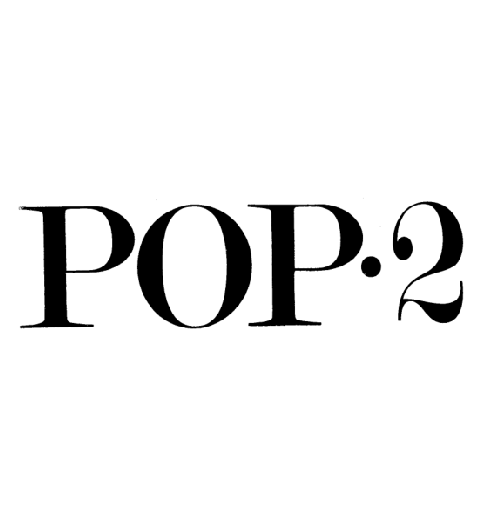
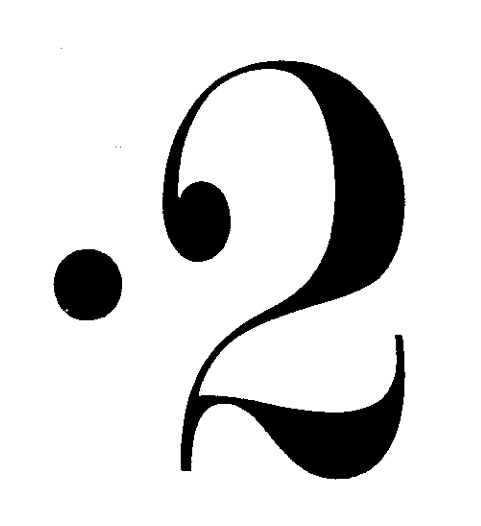
*

Changed region(s): [[0.0312, 0.0913, 0.9667, 0.9125]]

diff --git a/site/2026.html b/site/2026.html
@@ -18,21 +18,31 @@
 <nav><ul><li><a href="events.html">events</a></li><li><a href="blog.html">blog</a></li><li><a href="devlog.html">devlog</a></li><li><a href="now.html" class="parent">now</a></li></ul><ul><li><a href="2026.html" class="self">2026</a></li><li><a href="archives.html">archives</a></li></ul><ul></ul></nav>
 <main><h3 id="20P">20P</h3>
 <article>
-<h2>2026-07-30 il pluv</h2>
+<h2>2026-07-30 An ALGOL for your cat.</h2>
+<p>They would be both impractical, you will <i>never</i> host that compiler in 64kb, the chasm between it and the runtime will remain unbridged, and leave you with unreconcilable dependencies. But let me think on it and get back to you-
+<br />..<br />
+C, Pascal, Basic, Lua and some lesser known like Levien's IO or even Self, despite them being not obvious candidates for compilation, might work. I would any day rather implement a <a href='pascal.html'>Pascal</a> compiler, than a C one. Lua is a poor match for Uxn, found that one out the hard way. But, I think there's a clever answer to this just off the beaten path.</p>
+
+<p>The <a href='pop2.html'>POP-2 language</a> is an obscure outlier among your selection, but it has a clear advantage against all the others, it's extremely <a href='concatenative.html'>cat-brained</a> for an ALGOL and a beautifully designed one at that. What's more, the name has a direct match in <a href='uxntal_opcodes.html#pop2'>Uxntal's opcodes</a>-
+<br />..<br />
+Thanks to that relentless rain forcing me indoors, I was able to write a POP-2 compiler, it's about <a href='../etc/pop2.tal.txt' target='_blank'>800 lines</a> and <a href='../etc/pop2repl/index.html'>2.5kb</a>. Now, we might try to find out if a Uxntal assembler might be written in it and close the loop.</p>
+
+<!--
 <p>Weeks now into that summer pace of things, without signal. Forced inside for torrential rain, tossed around by the afternoon wind. Entire days in my bunk with a book and candles wedged between two zincs, there's a bad thing in anything good when there is too much of it. I tell you, even the forest looks sick of it, and I'm tired of reading.</p>
 
 <p>Today, the monotony was momentarily shattered by a boat trying to leave, the fog, the dreariness, I get it, but who then went and beached itself sideways. Eight hours like a dead fish, waiting for the water to return, they've limped back to where they've started and throughout the rain was still going.</p>
 
 <p>At one o'clock, we wander deep in the downpour and through the woods, it's dark as dusk and wet, we can't see where we're stepping it's so dark. We clamber up and down and it's slippery but when it finally opens up, there is black lake. And that water is warm enough for swimming.</p>
+-->
 
 <ul>
 	<li>Released <a href='https://kokorobot.ca/site/lepore_express_line.html' target='_blank'>Lepore Express Line</a>.</li>
-	<li>E fac melior <a href='../etc/sinflexion/index.html#fly'>dictionar</a> de Lø et traduction de <a href='gaud.html'>Gaud</a>.</li>
-	<li>Translated <a href='thousand_rooms.html'>Mil Camer</a> in <a href='latin_sin_flexion.html'>Sin Flexion</a></li>
+	<li>Wrote a <a href='pop2.html'>POP-2</a> compiler in Uxntal.</li>
 	<li>Created a page about <a href='tag.html'>Tag Systems</a>.</li>
+	<li>Translated <a href='thousand_rooms.html'>Mil Camer</a> in <a href='latin_sin_flexion.html'>Sin Flexion</a></li>
 	<li>This bi-monthly diary <a href='2021.html'>turned five</a>!</li>
 </ul>
-<img src='../media/refs/soulages.png' height='100'/>
+<img src='../media/services/pop2_icon.png' height='100'/>
 </article>
 
 <h3 id="20O">20O</h3>

diff --git a/site/now.html b/site/now.html
@@ -37,21 +37,31 @@
 </style>
 <h3 id="20P">20P</h3>
 <article>
-<h2>2026-07-30 il pluv</h2>
+<h2>2026-07-30 An ALGOL for your cat.</h2>
+<p>They would be both impractical, you will <i>never</i> host that compiler in 64kb, the chasm between it and the runtime will remain unbridged, and leave you with unreconcilable dependencies. But let me think on it and get back to you-
+<br />..<br />
+C, Pascal, Basic, Lua and some lesser known like Levien's IO or even Self, despite them being not obvious candidates for compilation, might work. I would any day rather implement a <a href='pascal.html'>Pascal</a> compiler, than a C one. Lua is a poor match for Uxn, found that one out the hard way. But, I think there's a clever answer to this just off the beaten path.</p>
+
+<p>The <a href='pop2.html'>POP-2 language</a> is an obscure outlier among your selection, but it has a clear advantage against all the others, it's extremely <a href='concatenative.html'>cat-brained</a> for an ALGOL and a beautifully designed one at that. What's more, the name has a direct match in <a href='uxntal_opcodes.html#pop2'>Uxntal's opcodes</a>-
+<br />..<br />
+Thanks to that relentless rain forcing me indoors, I was able to write a POP-2 compiler, it's about <a href='../etc/pop2.tal.txt' target='_blank'>800 lines</a> and <a href='../etc/pop2repl/index.html'>2.5kb</a>. Now, we might try to find out if a Uxntal assembler might be written in it and close the loop.</p>
+
+<!--
 <p>Weeks now into that summer pace of things, without signal. Forced inside for torrential rain, tossed around by the afternoon wind. Entire days in my bunk with a book and candles wedged between two zincs, there's a bad thing in anything good when there is too much of it. I tell you, even the forest looks sick of it, and I'm tired of reading.</p>
 
 <p>Today, the monotony was momentarily shattered by a boat trying to leave, the fog, the dreariness, I get it, but who then went and beached itself sideways. Eight hours like a dead fish, waiting for the water to return, they've limped back to where they've started and throughout the rain was still going.</p>
 
 <p>At one o'clock, we wander deep in the downpour and through the woods, it's dark as dusk and wet, we can't see where we're stepping it's so dark. We clamber up and down and it's slippery but when it finally opens up, there is black lake. And that water is warm enough for swimming.</p>
+-->
 
 <ul>
 	<li>Released <a href='https://kokorobot.ca/site/lepore_express_line.html' target='_blank'>Lepore Express Line</a>.</li>
-	<li>E fac melior <a href='../etc/sinflexion/index.html#fly'>dictionar</a> de Lø et traduction de <a href='gaud.html'>Gaud</a>.</li>
-	<li>Translated <a href='thousand_rooms.html'>Mil Camer</a> in <a href='latin_sin_flexion.html'>Sin Flexion</a></li>
+	<li>Wrote a <a href='pop2.html'>POP-2</a> compiler in Uxntal.</li>
 	<li>Created a page about <a href='tag.html'>Tag Systems</a>.</li>
+	<li>Translated <a href='thousand_rooms.html'>Mil Camer</a> in <a href='latin_sin_flexion.html'>Sin Flexion</a></li>
 	<li>This bi-monthly diary <a href='2021.html'>turned five</a>!</li>
 </ul>
-<img src='../media/refs/soulages.png' height='100'/>
+<img src='../media/services/pop2_icon.png' height='100'/>
 </article>
 
 <h3 id="20O">20O</h3>

diff --git a/src/htm/2026.htm b/src/htm/2026.htm
@@ -1,20 +1,30 @@
 <h3 id="20P">20P</h3>
 <article>
-<h2>2026-07-30 il pluv</h2>
+<h2>2026-07-30 An ALGOL for your cat.</h2>
+<p>They would be both impractical, you will <i>never</i> host that compiler in 64kb, the chasm between it and the runtime will remain unbridged, and leave you with unreconcilable dependencies. But let me think on it and get back to you-
+<br />..<br />
+C, Pascal, Basic, Lua and some lesser known like Levien's IO or even Self, despite them being not obvious candidates for compilation, might work. I would any day rather implement a <a href='pascal.html'>Pascal</a> compiler, than a C one. Lua is a poor match for Uxn, found that one out the hard way. But, I think there's a clever answer to this just off the beaten path.</p>
+
+<p>The <a href='pop2.html'>POP-2 language</a> is an obscure outlier among your selection, but it has a clear advantage against all the others, it's extremely <a href='concatenative.html'>cat-brained</a> for an ALGOL and a beautifully designed one at that. What's more, the name has a direct match in <a href='uxntal_opcodes.html#pop2'>Uxntal's opcodes</a>-
+<br />..<br />
+Thanks to that relentless rain forcing me indoors, I was able to write a POP-2 compiler, it's about <a href='../etc/pop2.tal.txt' target='_blank'>800 lines</a> and <a href='../etc/pop2repl/index.html'>2.5kb</a>. Now, we might try to find out if a Uxntal assembler might be written in it and close the loop.</p>
+
+<!--
 <p>Weeks now into that summer pace of things, without signal. Forced inside for torrential rain, tossed around by the afternoon wind. Entire days in my bunk with a book and candles wedged between two zincs, there's a bad thing in anything good when there is too much of it. I tell you, even the forest looks sick of it, and I'm tired of reading.</p>
 
 <p>Today, the monotony was momentarily shattered by a boat trying to leave, the fog, the dreariness, I get it, but who then went and beached itself sideways. Eight hours like a dead fish, waiting for the water to return, they've limped back to where they've started and throughout the rain was still going.</p>
 
 <p>At one o'clock, we wander deep in the downpour and through the woods, it's dark as dusk and wet, we can't see where we're stepping it's so dark. We clamber up and down and it's slippery but when it finally opens up, there is black lake. And that water is warm enough for swimming.</p>
+-->
 
 <ul>
 	<li>Released <a href='https://kokorobot.ca/site/lepore_express_line.html' target='_blank'>Lepore Express Line</a>.</li>
-	<li>E fac melior <a href='../etc/sinflexion/index.html#fly'>dictionar</a> de Lø et traduction de <a href='gaud.html'>Gaud</a>.</li>
-	<li>Translated <a href='thousand_rooms.html'>Mil Camer</a> in <a href='latin_sin_flexion.html'>Sin Flexion</a></li>
+	<li>Wrote a <a href='pop2.html'>POP-2</a> compiler in Uxntal.</li>
 	<li>Created a page about <a href='tag.html'>Tag Systems</a>.</li>
+	<li>Translated <a href='thousand_rooms.html'>Mil Camer</a> in <a href='latin_sin_flexion.html'>Sin Flexion</a></li>
 	<li>This bi-monthly diary <a href='2021.html'>turned five</a>!</li>
 </ul>
-<img src='../media/refs/soulages.png' height='100'/>
+<img src='../media/services/pop2_icon.png' height='100'/>
 </article>
 
 <h3 id="20O">20O</h3>

diff --git a/src/log/20p.htm b/src/log/20p.htm
@@ -1,16 +1,26 @@
-il pluv
+An ALGOL for your cat.
 
+<p>They would be both impractical, you will <i>never</i> host that compiler in 64kb, the chasm between it and the runtime will remain unbridged, and leave you with unreconcilable dependencies. But let me think on it and get back to you-
+<br />..<br />
+C, Pascal, Basic, Lua and some lesser known like Levien's IO or even Self, despite them being not obvious candidates for compilation, might work. I would any day rather implement a <a href='pascal.html'>Pascal</a> compiler, than a C one. Lua is a poor match for Uxn, found that one out the hard way. But, I think there's a clever answer to this just off the beaten path.</p>
+
+<p>The <a href='pop2.html'>POP-2 language</a> is an obscure outlier among your selection, but it has a clear advantage against all the others, it's extremely <a href='concatenative.html'>cat-brained</a> for an ALGOL and a beautifully designed one at that. What's more, the name has a direct match in <a href='uxntal_opcodes.html#pop2'>Uxntal's opcodes</a>-
+<br />..<br />
+Thanks to that relentless rain forcing me indoors, I was able to write a POP-2 compiler, it's about <a href='../etc/pop2.tal.txt' target='_blank'>800 lines</a> and <a href='../etc/pop2repl/index.html'>2.5kb</a>. Now, we might try to find out if a Uxntal assembler might be written in it and close the loop.</p>
+
+<!--
 <p>Weeks now into that summer pace of things, without signal. Forced inside for torrential rain, tossed around by the afternoon wind. Entire days in my bunk with a book and candles wedged between two zincs, there's a bad thing in anything good when there is too much of it. I tell you, even the forest looks sick of it, and I'm tired of reading.</p>
 
 <p>Today, the monotony was momentarily shattered by a boat trying to leave, the fog, the dreariness, I get it, but who then went and beached itself sideways. Eight hours like a dead fish, waiting for the water to return, they've limped back to where they've started and throughout the rain was still going.</p>
 
 <p>At one o'clock, we wander deep in the downpour and through the woods, it's dark as dusk and wet, we can't see where we're stepping it's so dark. We clamber up and down and it's slippery but when it finally opens up, there is black lake. And that water is warm enough for swimming.</p>
+-->
 
 <ul>
 	<li>Released <a href='https://kokorobot.ca/site/lepore_express_line.html' target='_blank'>Lepore Express Line</a>.</li>
-	<li>E fac melior <a href='../etc/sinflexion/index.html#fly'>dictionar</a> de Lø et traduction de <a href='gaud.html'>Gaud</a>.</li>
-	<li>Translated <a href='thousand_rooms.html'>Mil Camer</a> in <a href='latin_sin_flexion.html'>Sin Flexion</a></li>
+	<li>Wrote a <a href='pop2.html'>POP-2</a> compiler in Uxntal.</li>
 	<li>Created a page about <a href='tag.html'>Tag Systems</a>.</li>
+	<li>Translated <a href='thousand_rooms.html'>Mil Camer</a> in <a href='latin_sin_flexion.html'>Sin Flexion</a></li>
 	<li>This bi-monthly diary <a href='2021.html'>turned five</a>!</li>
 </ul>
-<img src='../media/refs/soulages.png' height='100'/>
+<img src='../media/services/pop2_icon.png' height='100'/>

diff --git a/site/pascal.html b/site/pascal.html
@@ -616,7 +616,7 @@ end.
 	<li><a href='http://pascal.hansotten.com/simplicity' target='_blank'>Pascal and Simplicity</a></li>
 </ul>
 
-<figure><img alt="Entaloneralie System 7" src="../media/diary/662.jpg"><figcaption>Entaloneralie System 7<span class="right">14H05</span></figcaption></figure><ul></ul><p><b>incoming: </b><a href="graf3dscene.html">graf3dscene</a> <a href="neralie.html">neralie</a> <a href="imperative.html" class="parent">imperative</a> <a href="pop2.html">pop2</a> <a href="macintosh.html">macintosh</a> <a href="identity.html">identity</a> <a href="computer.html">computer</a> </p></main>
+<figure><img alt="Entaloneralie System 7" src="../media/diary/662.jpg"><figcaption>Entaloneralie System 7<span class="right">14H05</span></figcaption></figure><ul></ul><p><b>incoming: </b><a href="graf3dscene.html">graf3dscene</a> <a href="neralie.html">neralie</a> <a href="imperative.html" class="parent">imperative</a> <a href="pop2.html">pop2</a> <a href="macintosh.html">macintosh</a> <a href="identity.html">identity</a> <a href="computer.html">computer</a> <a href="2026.html">2026</a> </p></main>
 <footer>
 	<a href="uxn.html"><img src="../media/icon/uxn.png" alt="Uxn Powered"/></a> 
 	<a href="ethics.html"><img src="../media/icon/3arrows.png" alt="NoNazis!"/></a>

diff --git a/site/uxntal_opcodes.html b/site/uxntal_opcodes.html
@@ -636,7 +636,7 @@ table td.call, table td.call a { background:#000; color:white }
 	<li><a href='https://github.com/Ismael-VC' target='_blank'>Ismael Venegas Castello</a>, contributor</li>
 	<li><a href='../etc/uxn.napkin.txt' target='_blank'>A napkin definition</a></li>
 </ul>
-<ul></ul><p><b>incoming: </b><a href="uxntal.html" class="parent">uxntal</a> <a href="uxntal_reference.html">uxntal reference</a> <a href="uxntal_labels.html">uxntal labels</a> </p></main>
+<ul></ul><p><b>incoming: </b><a href="uxntal.html" class="parent">uxntal</a> <a href="uxntal_reference.html">uxntal reference</a> <a href="uxntal_labels.html">uxntal labels</a> <a href="2026.html">2026</a> </p></main>
 <footer>
 	<a href="uxn.html"><img src="../media/icon/uxn.png" alt="Uxn Powered"/></a> 
 	<a href="ethics.html"><img src="../media/icon/3arrows.png" alt="NoNazis!"/></a>

diff --git a/site/pop2.html b/site/pop2.html
@@ -156,7 +156,7 @@ printString(#text);
 </ul>
 
 <img src='../media/refs/neko.png' width='100'/>
-<ul></ul></main>
+<ul></ul><p><b>incoming: </b><a href="2026.html">2026</a> </p></main>
 <footer>
 	<a href="uxn.html"><img src="../media/icon/uxn.png" alt="Uxn Powered"/></a> 
 	<a href="ethics.html"><img src="../media/icon/3arrows.png" alt="NoNazis!"/></a>
